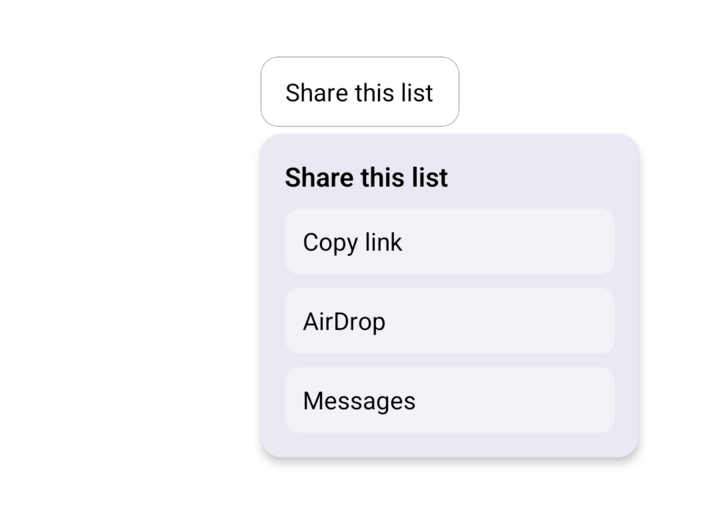
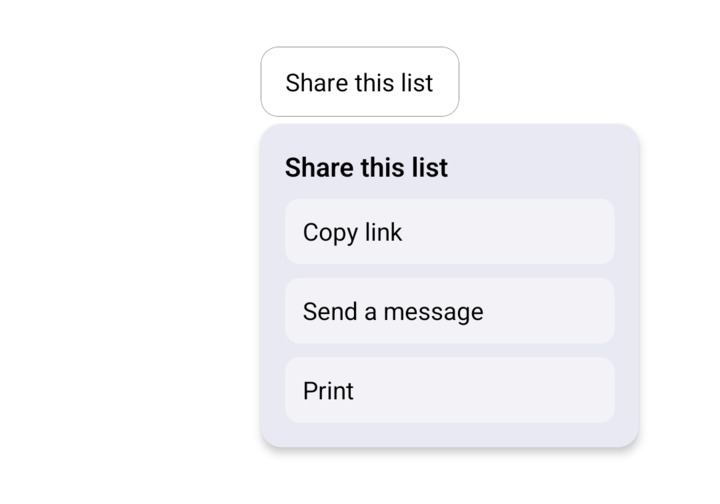
docs(popover): retake the README pair with the story's neutral rows
The committed pair was photographed before the story's rows changed, so it
still offered AirDrop and Messages. Both pictures now show what the story
renders - Copy link, Send a message, Print - measured off the card's own
edges: iOS 804x511 from a 1260x2736 shot, Android 720x504 from 1080x2424.
The alt text said the card sits under its anchor, which is true on Android
and not on iOS, where UIKit runs out of room and opens it above; it now
says the card is open from its anchor, which is true on both.

diff --git a/README.md b/README.md
@@ -886,8 +886,8 @@ actions; a title or an action makes Android's tooltip the rich one.
 <table>
   <tr><th>iOS</th><th>Android</th></tr>
   <tr>
-    <td><img src="docs/images/components/popover-ios.png" width="300" alt="A Popover open under a Share this list anchor, with three rows of React Native content, on iOS" /></td>
-    <td><img src="docs/images/components/popover-android.png" width="300" alt="A Popover open under a Share this list anchor, with three rows of React Native content, on Android" /></td>
+    <td><img src="docs/images/components/popover-ios.png" width="300" alt="A Popover open from its Share this list anchor, with three rows of React Native content, on iOS" /></td>
+    <td><img src="docs/images/components/popover-android.png" width="300" alt="A Popover open from its Share this list anchor, with three rows of React Native content, on Android" /></td>
   </tr>
 </table>
 
